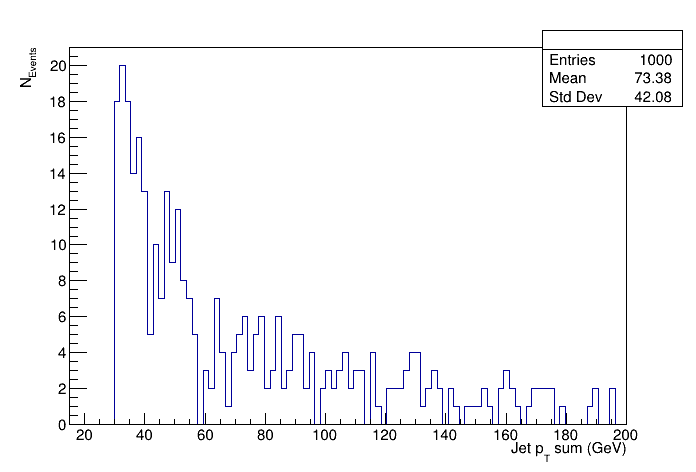
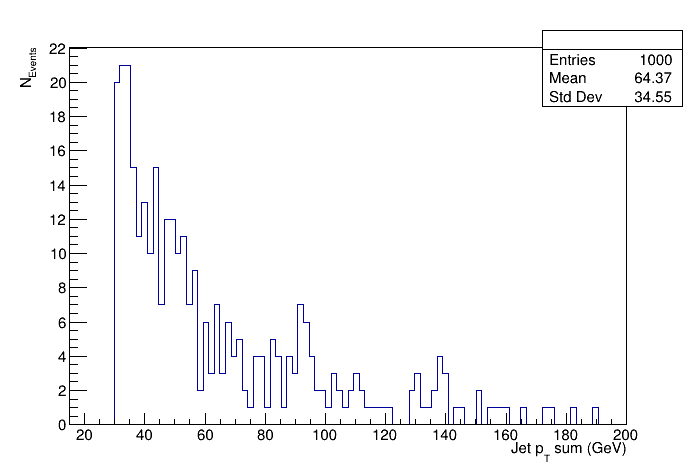
fix benchmark 7 deltaR calculation

diff --git a/macros/benchmark7.C b/macros/benchmark7.C
@@ -11,7 +11,7 @@ ROOT::RVec<int> get_jet_lepton_isolation(const ROOT::RVec<float> &jet_eta,
     for (auto i = 0; i < jet_lepton_indices[0].size(); ++i) {
         const auto jet_idx = jet_lepton_indices[0][i];
         const auto lepton_idx = jet_lepton_indices[1][i];
-        const auto deltaR = ROOT::VecOps::DeltaR(jet_eta[jet_idx], jet_phi[jet_idx], lepton_eta[lepton_idx], lepton_phi[lepton_idx]);
+        const auto deltaR = ROOT::VecOps::DeltaR(jet_eta[jet_idx], lepton_eta[lepton_idx], jet_phi[jet_idx], lepton_phi[lepton_idx]);
         if (deltaR < 0.4) {
             jet_mask[jet_idx] = 0;
         }
